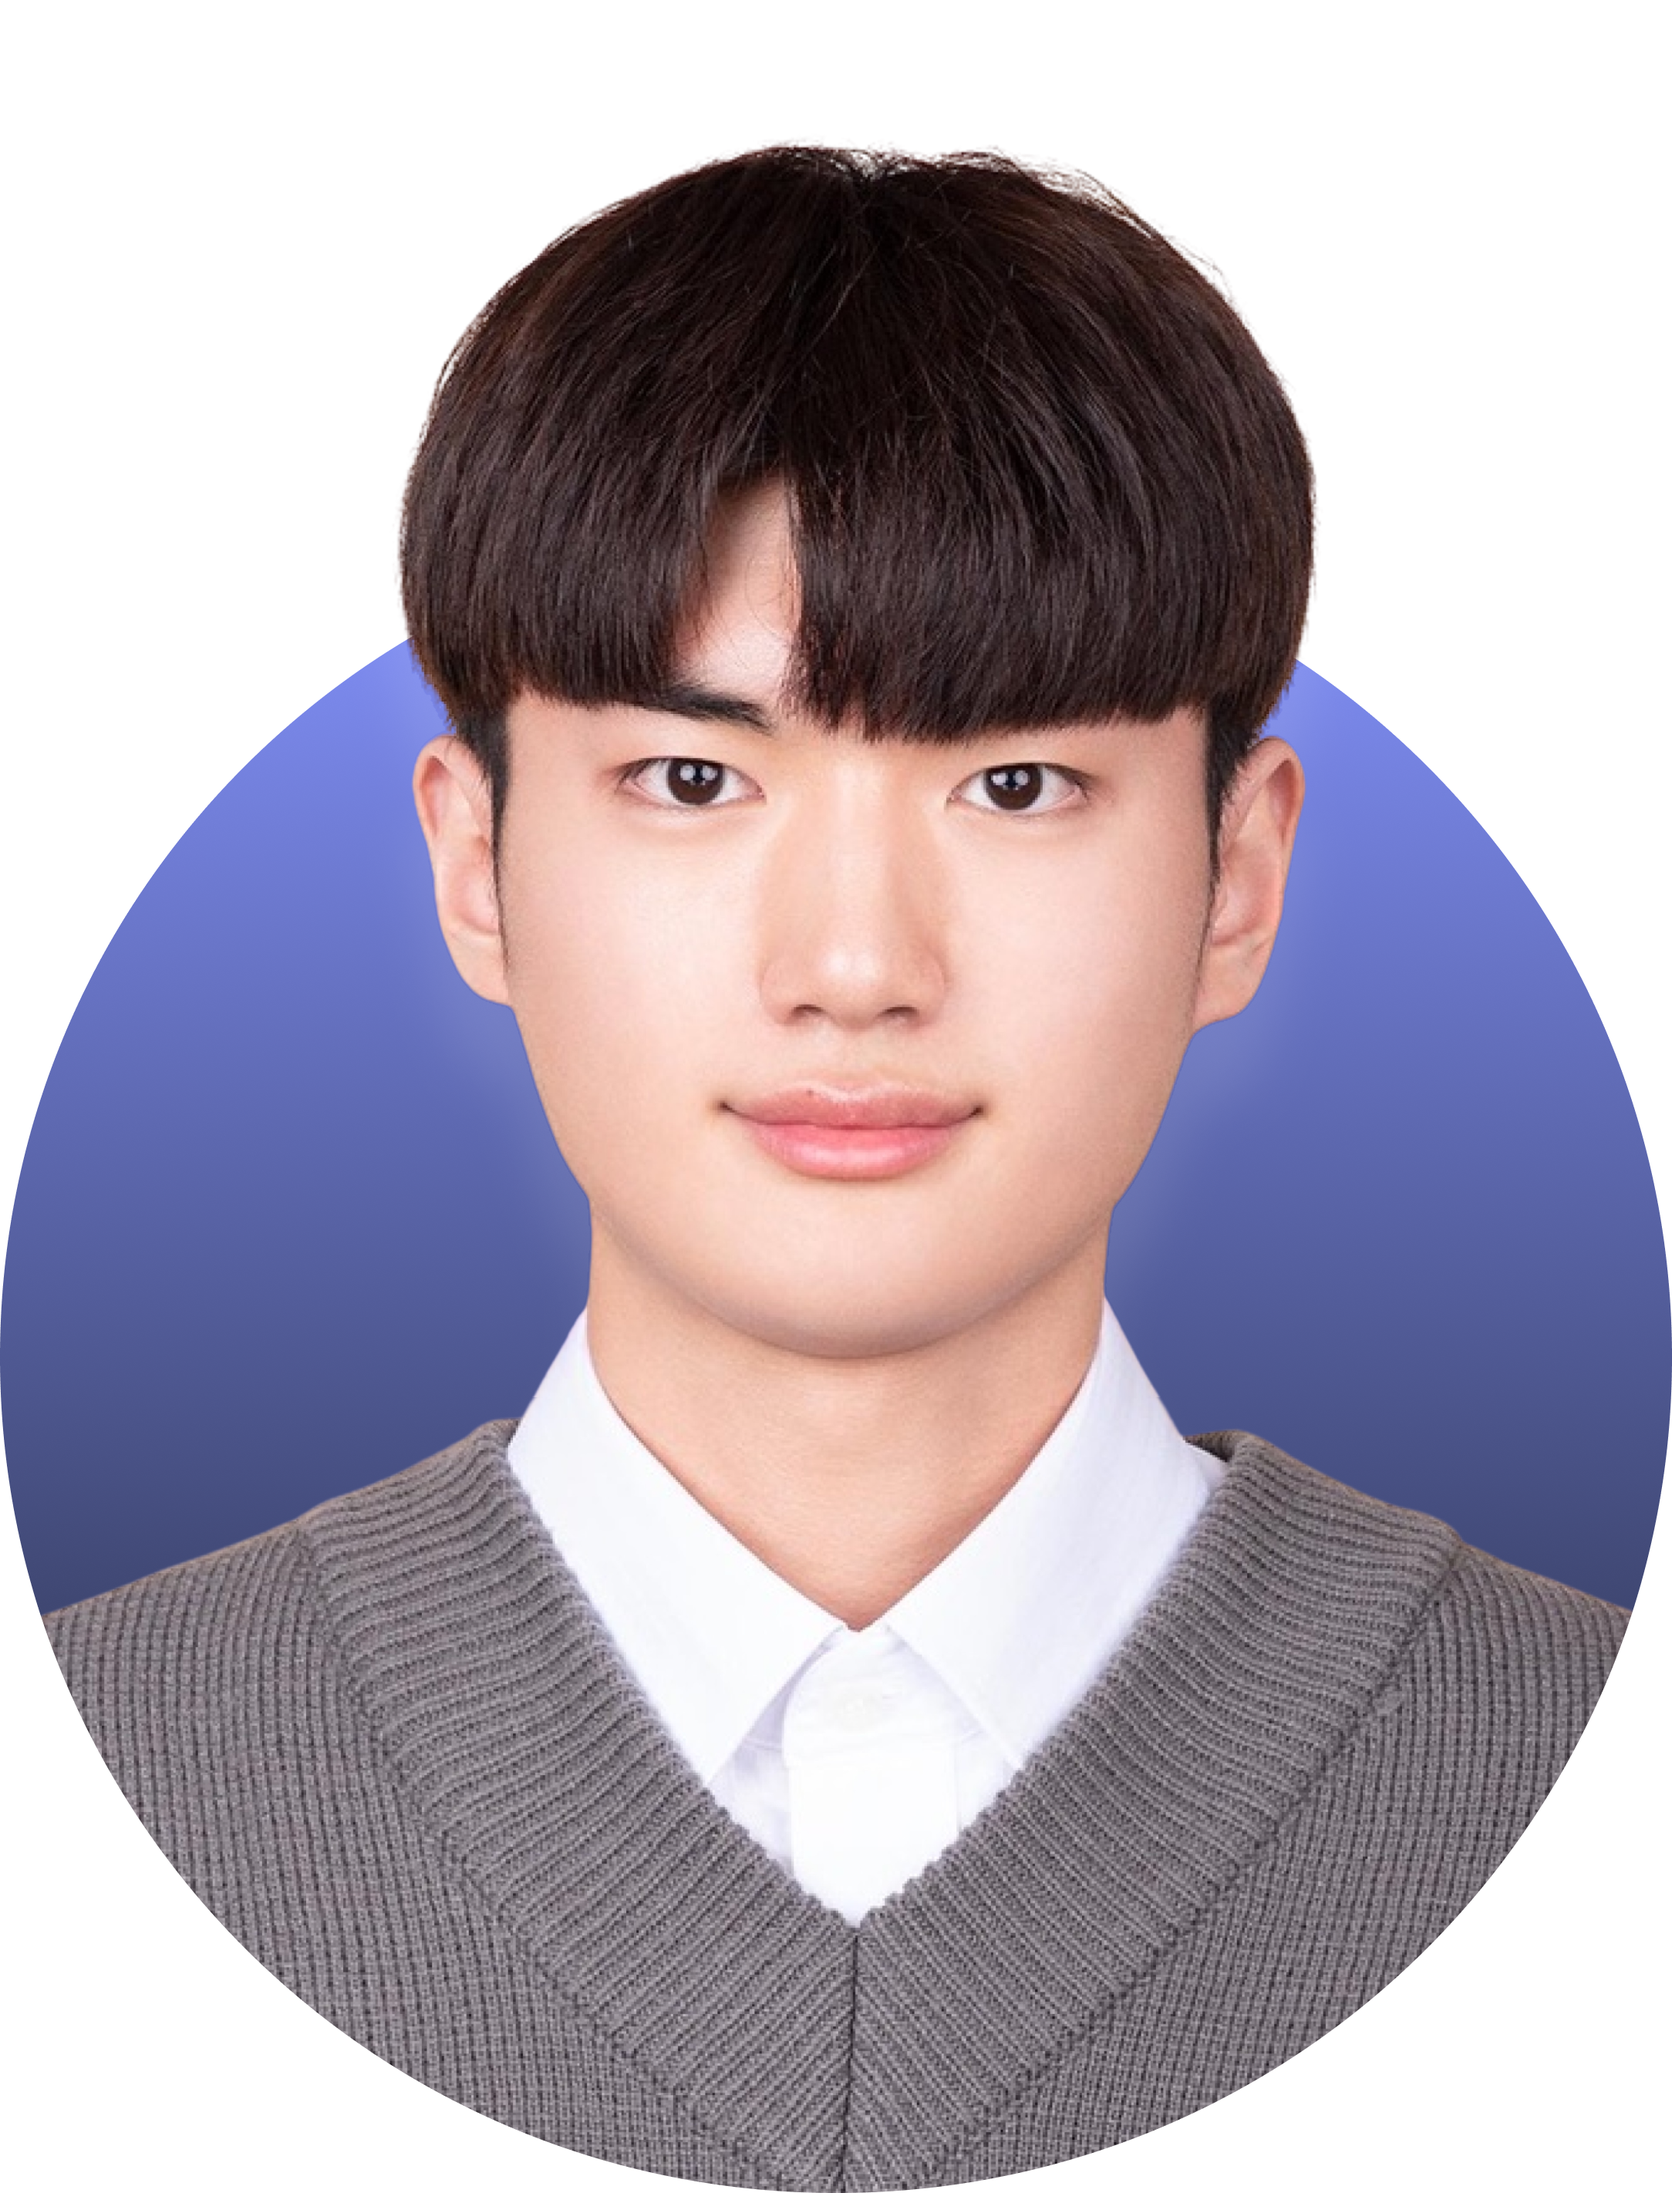
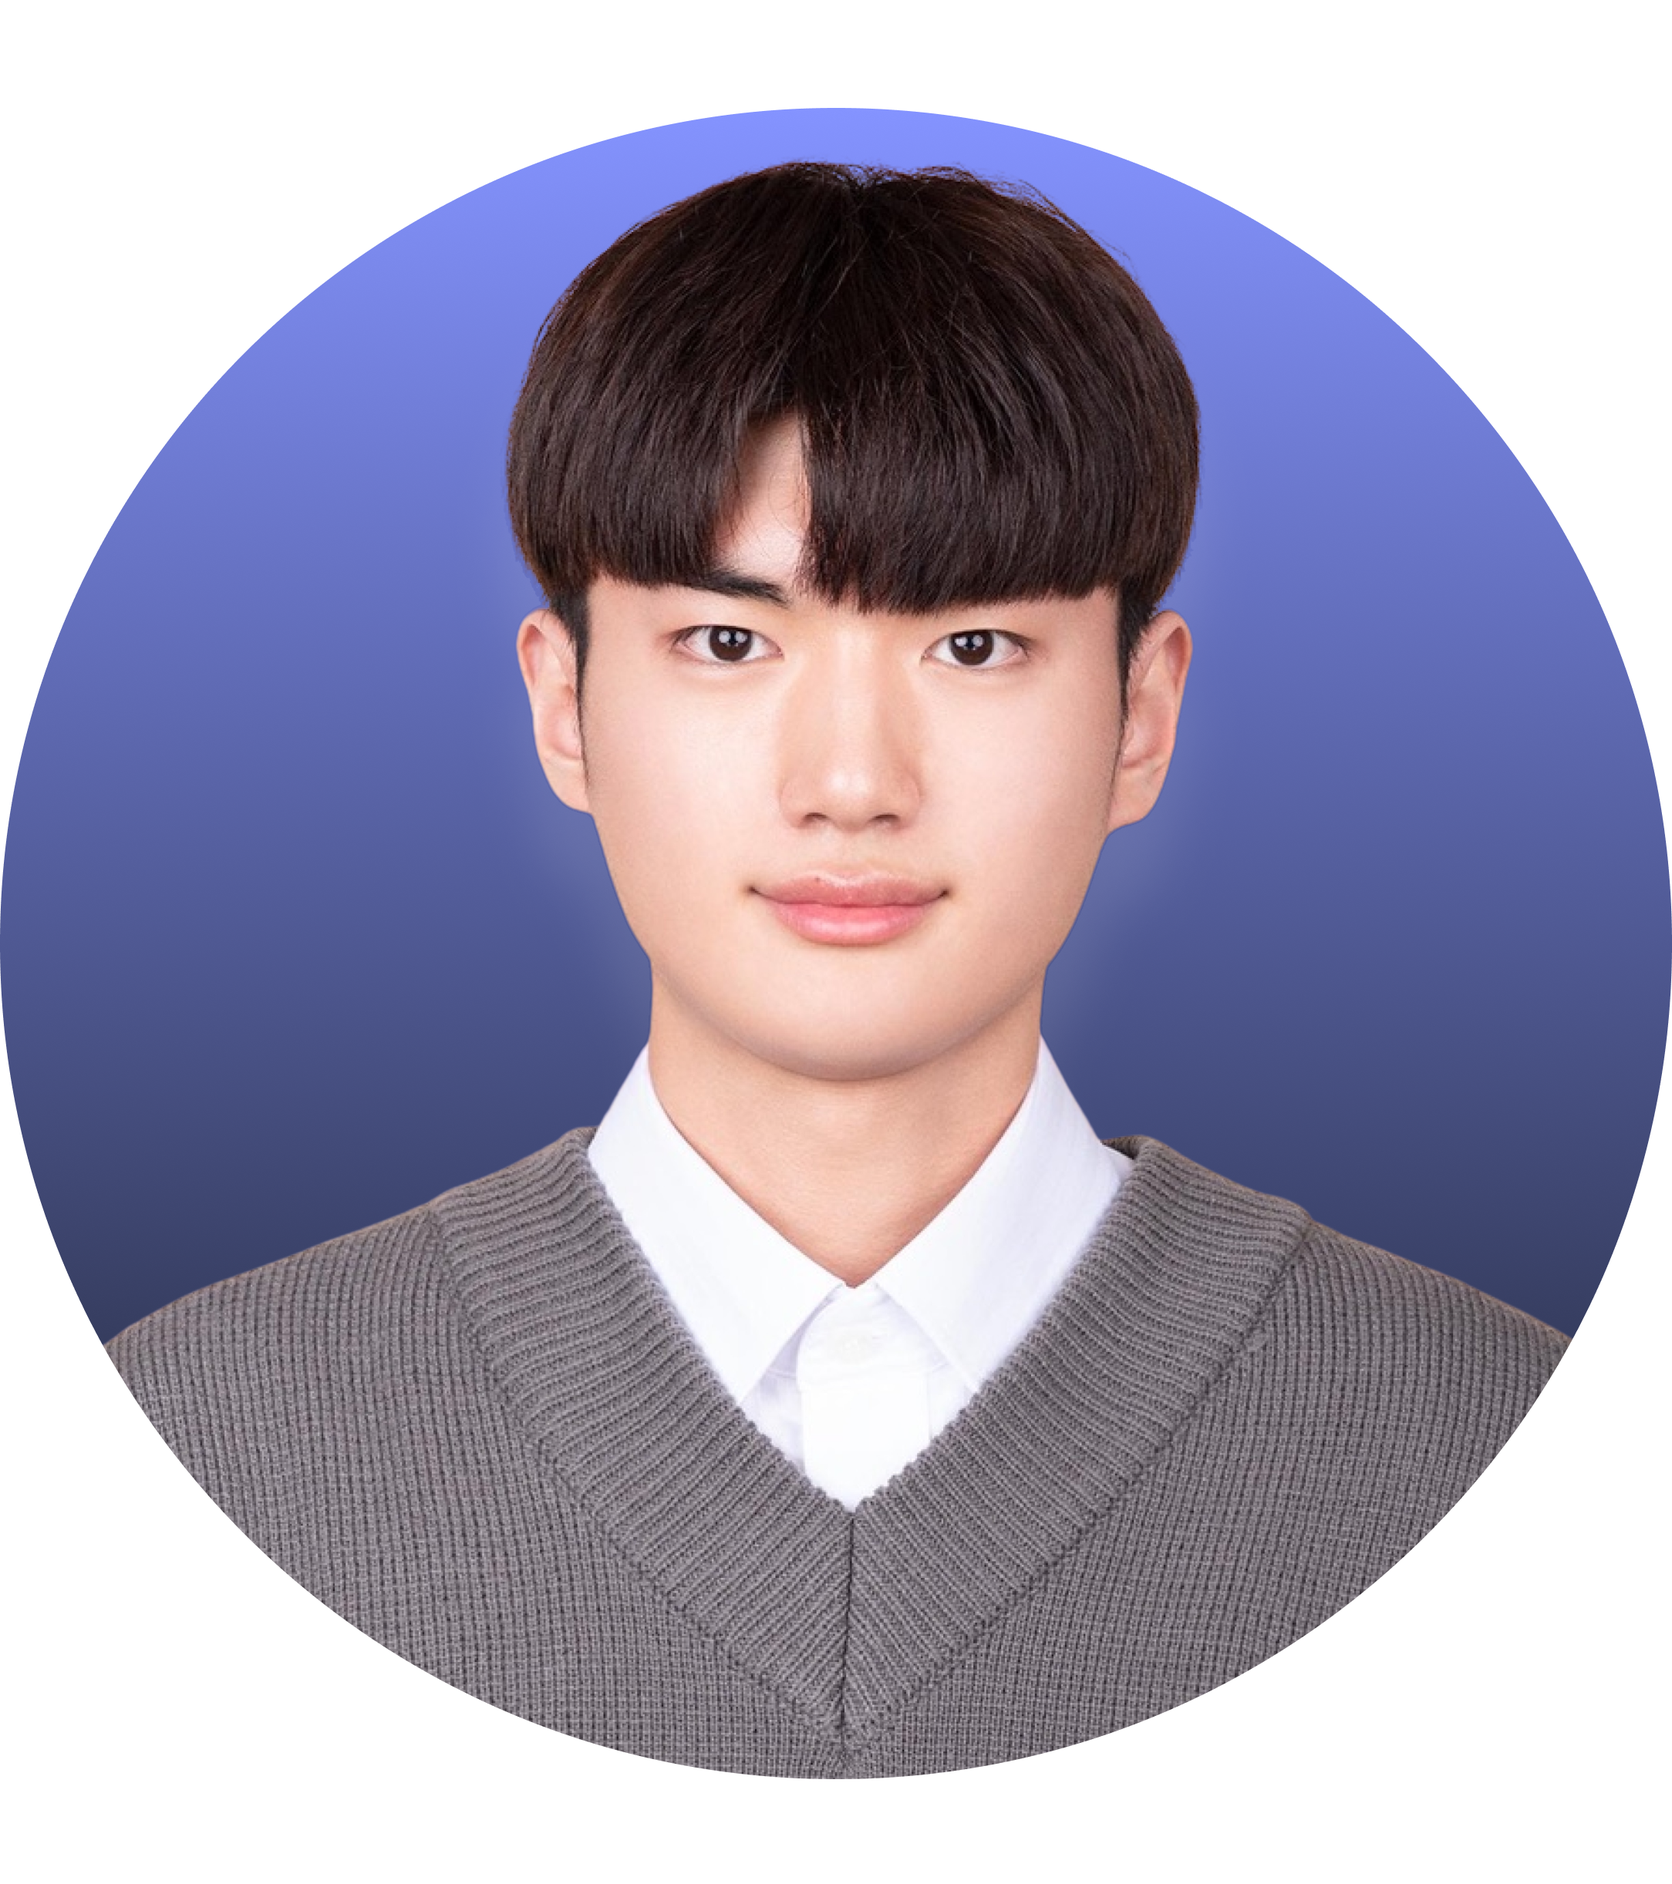
Change my profile image

diff --git a/src/components/third/index.tsx b/src/components/third/index.tsx
@@ -13,10 +13,11 @@ const Third = () => {
      <S.Positioner>
         <S.ProfileWrapper>
            <Image
+             className="my-img"
              src={Profile.src}
              alt="Picture of the author"
-             width={355}
-             height={450}
+             width={400}
+             height={460}
            />
            <S.ProfileLine/>
            <S.Information>

diff --git a/src/components/third/style.tsx b/src/components/third/style.tsx
@@ -10,7 +10,7 @@ export const Positioner = styled.div`
   color: white;
 `;
 export const ProfileWrapper = styled.div`
-  width: 40%;
+  width: 50%;
   height: 100%;
   display: flex;
   justify-content: space-between;
